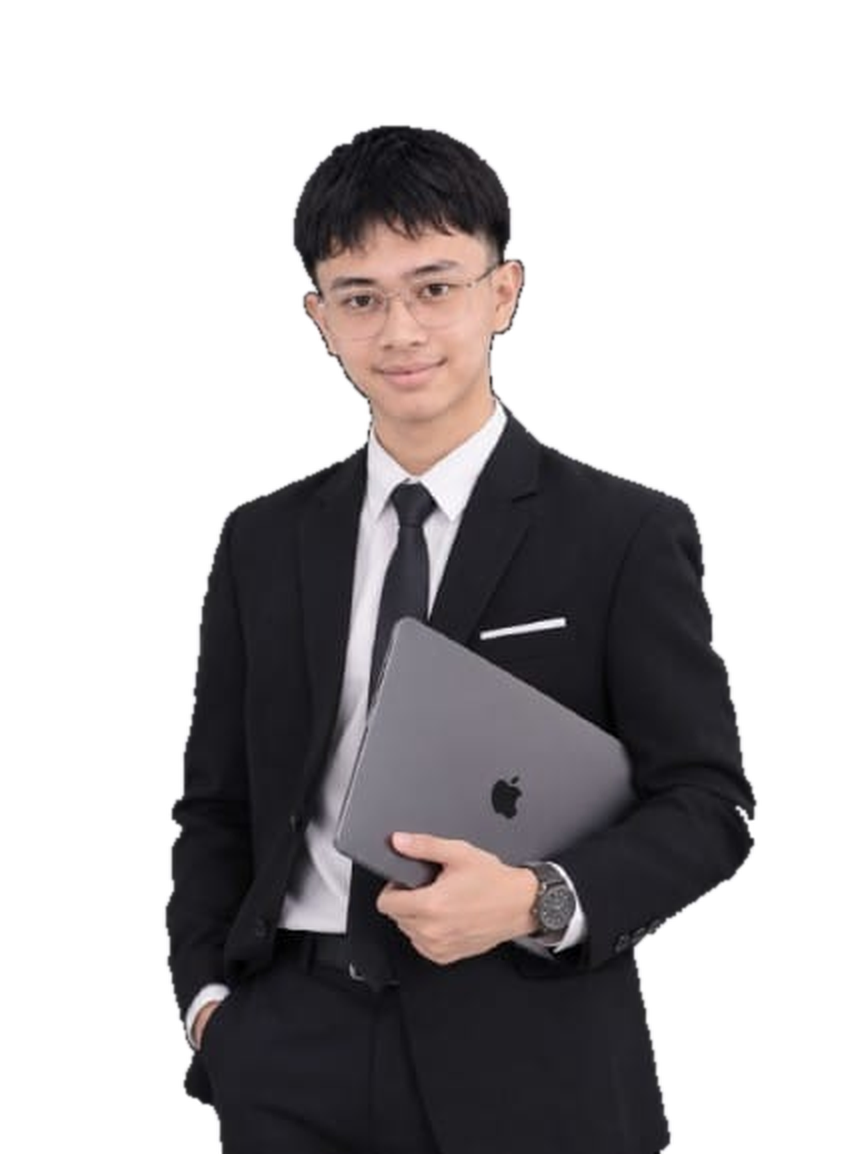
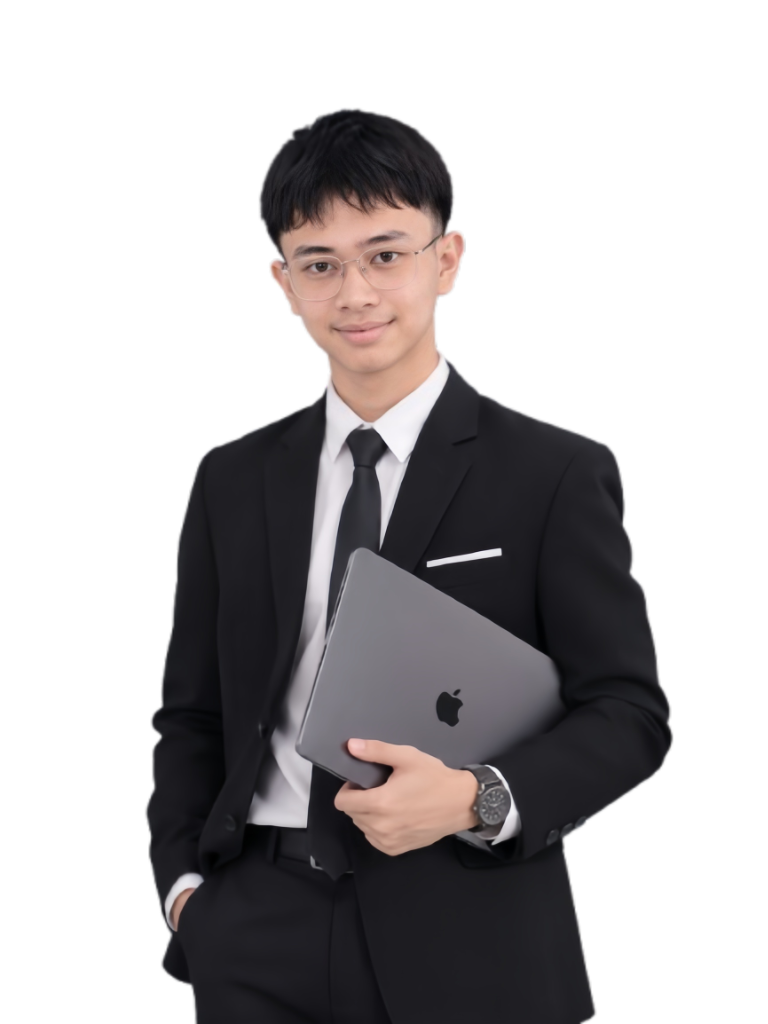
feat(hero): update hero portrait to new HD image

diff --git a/frontend/src/components/sections/SectionExperience.tsx b/frontend/src/components/sections/SectionExperience.tsx
@@ -219,7 +219,7 @@ export function SectionExperience({ profile }: SectionExperienceProps) {
 
                     <div className="relative w-full h-56 sm:h-64 rounded-lg overflow-hidden bg-gradient-to-b from-slate-200 via-slate-100 to-slate-200 border border-slate-300/80 flex items-end justify-center">
                       <img
-                        src="/images/hero-portrait.png?v=8"
+                        src="/images/hero-portrait.png?v=9"
                         alt={profile?.name || 'Rizky Fahmi'}
                         className="w-full h-full object-cover object-top filter grayscale contrast-105"
                       />

diff --git a/frontend/src/components/sections/SectionHero.tsx b/frontend/src/components/sections/SectionHero.tsx
@@ -128,7 +128,7 @@ export function SectionHero({ profile }: SectionHeroProps) {
               className="relative z-10 w-full flex justify-center items-end leading-none"
             >
               <motion.img
-                src="/images/hero-portrait.png?v=8"
+                src="/images/hero-portrait.png?v=9"
                 alt={profile.name}
                 animate={{
                   scale: [1.05, 1.075, 1.05],
